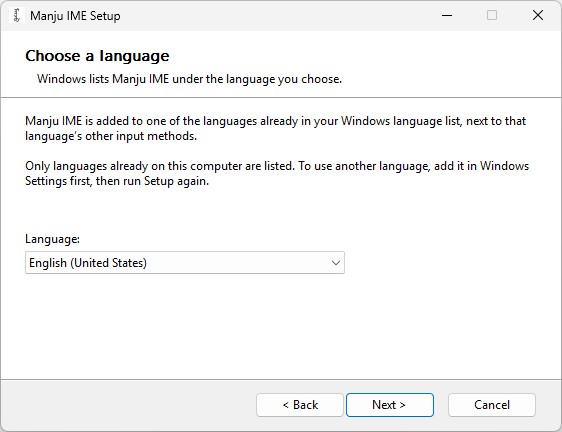
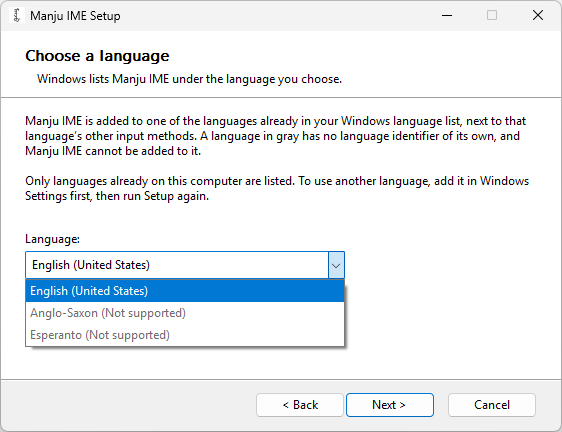
Documents for 1.0.0: the examples as animations, the keys of Chromium programs, whom Manju IME is for
- README: a paragraph on whom Manju IME is for. The pictures at the top give way to thirteen animations
  taken one key at a time: twelve examples, each captioned with the input scheme it was typed with, and
  the eight themes of the candidate window. An acknowledgment of Claude Code and Codex.
- Using Manju IME: a row of the key table for Ctrl, Alt or Win with another key and for F1 to F12, which
  Microsoft Edge and the other programs built on Chromium get only after Manju IME has put the word in as
  you typed it. Leaving a word names the ways a word now ends in Edge, and its paragraph on a click on
  another program’s window is gone.
- Deploying Manju IME: the paragraph on the message hooks says what the input method does now, and names
  the programs that show web pages with Microsoft Edge WebView2.
- Installing and Deploying Manju IME say what Microsoft’s page on Smart App Control says without quoting
  it.
- The picture of the language page shows its list open, with the languages in gray.

Every picture comes from Manju IME 1.0.0 in Windows Sandbox. typing.gif and vertical-edge-typing.png,
which no document shows any more, are removed.

Changed region(s): [[0.0302, 0.5718, 0.6352, 0.8125], [0.0302, 0.331, 0.9377, 0.4815], [0.363, 0.3009, 0.9377, 0.331]]

diff --git a/README.md b/README.md
@@ -7,32 +7,91 @@ keyboard has no keys for, here the Manchu script. You type the spelling of a Man
 letters, and a small window beside the text, the candidate window, shows the word in Manchu letters;
 press **Space**, and the word goes into your document.
 
+Manju IME is made for people who are learning Manchu. The candidate window shows one card for each form
+the highlighted letter can take, each card the whole word with that form, so you see how a letter changes
+with its place in the word, and a number key picks the form. Six input schemes let you type with a
+spelling you already know, and whichever of them you type with, the display scheme can show the letters
+typed in the spelling you learned, such as Möllendorff’s.
+
 Manju IME enters only standard characters of Unicode, the standard that numbers every character of every
 script: the Manchu letters and punctuation, the variation selectors that pick another form of a letter,
 and the separators that set a suffix apart, all as Unicode defines them, and the Latin letters and
 symbols you type on a standard keyboard. It uses no private-use characters and no codes that only one
-font understands, so any font that follows Unicode draws the text. You spell Manchu in one of six input
-schemes, ways of spelling it in Latin letters, and each of them is typed with the Latin letters of a
-standard keyboard.
+font understands, so any font that follows Unicode draws the text. Each of the six input schemes, ways of
+spelling Manchu in Latin letters, is typed with the Latin letters of a standard keyboard.
 
-![Typing šanyan on a vertical page with the Möllendorff input scheme: s, then a tap of Shift, which turns the s into š among the letters typed, then anyan; after each key the candidate window beside the caret shows the word in Manchu letters, and Space enters it](docs/images/typing.gif)
+## Examples
 
-*Typing `šanyan` (white) with the Möllendorff input scheme, where `š` is `s` followed by a tap of
-**Shift**.*
+Every picture below was taken in Windows 11, one frame for each key, on a web page written top to bottom
+in Microsoft Edge; the last one shows the candidate window alone, one frame for each theme. The caption
+under each names the input scheme it was typed with.
 
-![A web page written top to bottom in Microsoft Edge, with the Möllendorff input scheme: hūwaliyasun is entered, and the candidate window shows šun as it is typed](docs/images/vertical-edge-typing.png)
+![A web page written top to bottom, with the Möllendorff input scheme. The words bi, manju, gisun and be are typed one key at a time: after each key the candidate window beside the text shows the word in Manchu letters, Space enters the word, and a second Space types a space. Then tacimbi and the full stop key, which adds the Manchu full stop, and Space enters the last word](docs/images/showcase-01-sentence.gif)
 
-*A web page written top to bottom: `hūwaliyasun` (harmony) is entered and `šun` (sun) is being typed, with
-the Möllendorff input scheme.*
+*`bi manju gisun be tacimbi.` (I study the Manchu language), typed word by word with the Möllendorff input
+scheme. **Space** enters each word, and the full stop key gives the Manchu full stop ᠃.*
 
-![Two candidate windows with the Möllendorff input scheme: gisun typed, with two cards, and bithe typed, with four cards; each card shows the whole word with one form of its last letter](docs/images/glyphs.png)
+![The sentence of the picture above typed at about 80 milliseconds a key, with the Möllendorff input scheme: the candidate window follows every key](docs/images/showcase-02-fast.gif)
 
-*Each card shows the whole word with one form of the highlighted letter: `gisun` and `bithe`, typed with
-the Möllendorff input scheme.*
+*The same sentence typed fast, with the Möllendorff input scheme.*
 
-![The candidate window after typing manju, in each of the eight themes: Windows 11, So Young, Solarized Dark, Court, High Contrast, Bean Green, Google and Android](docs/images/themes.png)
+![With the Möllendorff input scheme, enduringge is typed one key at a time. Up three times moves the highlight up the letters to i, and Down twice moves it back to g; the cards change with each move. 3 picks the card where ng is joined with the g, and Space enters the word. Then bithe is typed, Right three times moves across the four cards of its last letter, 3 picks one, and Space enters the word](docs/images/showcase-03-forms.gif)
 
-*The candidate window in its eight themes, after typing `manju` with the Möllendorff input scheme.*
+*`enduringge` (holy): **Up** and **Down** move the highlight along the letters and the cards change with
+it, and **3** picks the card that joins `ng` with the `g` after it. Then `bithe` (book): **Right** moves
+across the four forms of its last letter, and **3** picks one. Möllendorff input scheme.*
+
+![With the Möllendorff input scheme, gurun and be are entered, then h, u, a tap of Shift that turns the u into ū, and waliyambumbi are typed. The word has more letters than the candidate window has rows: Page Up shows the rows before and Page Down the rows after, and Space enters the word](docs/images/showcase-04-long-word.gif)
+
+*`gurun be hūwaliyambumbi` (to bring the country into harmony): the long word has more letters than the
+window has rows, and **Page Up** and **Page Down** show the others. Möllendorff input scheme, where `ū`
+is `u` followed by a tap of **Shift**.*
+
+![With the Möllendorff input scheme, bi is entered; a tap of Shift switches to Latin input and Manju IME goes in as Latin letters; another tap of Shift switches back to Manchu input, and be and baitalambi are typed and entered in Manchu letters](docs/images/showcase-05-mixed.gif)
+
+*Manchu and Latin letters in one line, `bi Manju IME be baitalambi` (I use Manju IME): a tap of
+**Shift** switches between Manchu and Latin input. Möllendorff input scheme.*
+
+![With Refined Romanisation (draft), sy, tsy, dzy, chy and jy are typed and each is entered with Space; in the candidate window each whole syllable takes one row of the letters typed](docs/images/showcase-06-syllables.gif)
+
+*Whole syllables, each shown as one row of the letters typed: `sy`, `tsy`, `dzy`, `chy` and `jy`, typed
+with Refined Romanisation (draft), the input scheme that types all of them.*
+
+![With the Möllendorff input scheme, manju is typed, then the hyphen key, which inserts the Mongolian vowel separator, then i, and Space enters manju-i; then gisun is typed and entered. Then bi, the hyphen key and de](docs/images/showcase-07-suffix.gif)
+
+*The Mongolian vowel separator, which sets a suffix apart, typed with the `-` key: `manju-i gisun` and
+`bi-de`, with the Möllendorff input scheme.*
+
+![With the Möllendorff input scheme, nga is typed, where ng is one letter, and entered; then n, the apostrophe key and ga are typed: the apostrophe key separates n from g, and the word has the two letters n and g](docs/images/showcase-08-apostrophe.gif)
+
+*`nga`, where `ng` is one letter, and `n'ga`, where the `'` key separates `n` from `g`. Möllendorff
+input scheme.*
+
+![With the Möllendorff input scheme, bi manju, si monggo. is typed: the comma key adds the Manchu comma after manju, the full stop key adds the Manchu full stop after monggo, and Space enters each word](docs/images/showcase-09-punctuation.gif)
+
+*The Manchu comma and full stop in `bi manju, si monggo.` (I am Manchu, you are Mongol), typed with the
+Möllendorff input scheme.*
+
+![With Refined Romanisation (draft) and the display scheme set to Möllendorff, s, h, u and n are typed: the letters typed show š, u and n, and Space enters the word](docs/images/showcase-10-display-scheme.gif)
+
+*The display scheme, the spelling that the letters typed are shown in: `shun` typed with Refined
+Romanisation (draft) is shown as `šun`, the Möllendorff spelling.*
+
+![The Manchu word šun (sun) typed six times, once in each input scheme in the Latin order of their names: xun with Abkai and with BabelPad, shun with Hu, s, a tap of Shift and un with Möllendorff and with Norman, and shun with Refined Romanisation (draft). Each time the candidate window shows the same Manchu word, and Space enters it](docs/images/showcase-11-schemes.gif)
+
+*`šun` (sun) typed in each of the six input schemes, in the Latin order of their names: `xun` with Abkai
+and with BabelPad, `shun` with Hu, `s`, a tap of **Shift** and `un` with Möllendorff and with Norman,
+and `shun` with Refined Romanisation (draft).*
+
+![With the Möllendorff input scheme, ere manju hergen i bithe. is typed one key at a time on a page written top to bottom; Space enters each word, and the full stop key adds the Manchu full stop](docs/images/showcase-12-page.gif)
+
+*`ere manju hergen i bithe.` (This is a book in the Manchu script), typed with the Möllendorff input
+scheme.*
+
+![The candidate window after typing manju with the Möllendorff input scheme, shown in each of its eight themes in turn: Windows 11, So Young, Solarized Dark, Court, High Contrast, Bean Green, Google and Android](docs/images/showcase-themes.gif)
+
+*The candidate window in its eight themes, sets of colors that the settings file picks, after typing
+`manju` with the Möllendorff input scheme.*
 
 [Using Manju IME](docs/usage.md) has more pictures, with every key the IME uses.
 
@@ -69,7 +128,7 @@ into a folder you will keep. In the `Installer` folder, run `Install Manju IME.e
 
 [Deploying Manju IME](docs/deployment.md) covers unattended deployment with the PowerShell scripts.
 
-![Setup page by page: the first page, the language page, the folder page, Setup while it installs Manju IME, and the last page, which says Manju IME is installed](docs/images/setup.gif)
+![Setup page by page: the first page, the language page with its list open, the folder page, Setup while it installs Manju IME, and the last page, which says Manju IME is installed](docs/images/setup.gif)
 
 ## Use
 
@@ -99,3 +158,6 @@ In the `Installer` folder, run `Uninstall Manju IME.exe`. The files stay in the 
 - Weasel, the Windows front end of the [RIME](https://rime.im/) input method engine: Manju IME drew some
   inspiration from it.
 - The makers of the five published input schemes: see [Input schemes](docs/romanization.md#acknowledgments).
+- [Claude Code](https://www.anthropic.com/claude-code) by Anthropic, the AI coding agent that wrote the code
+  and these documents to the author’s design and architecture, and [Codex](https://openai.com/codex/) by
+  OpenAI, which reviewed the releases.

diff --git a/docs/usage.md b/docs/usage.md
@@ -79,6 +79,7 @@ they would without an IME.
 | **Left**, **Right** | Moves the highlight to the card before or after; this does not pick the card. | Goes to the program. |
 | **Page Up**, **Page Down** | When the word has more letters than the window shows, shows the rows before or after, and highlights the first letter shown. | Goes to the program. |
 | **Tab** | Goes to the program. Microsoft Edge, Google Chrome and the other programs built on Chromium end the word when they get it, so Manju IME first puts the word into the document as you typed it: see [Leaving a word](#leaving-a-word). In other programs, such as Notepad, the word stays open. | Goes to the program. |
+| **Ctrl**, **Alt** or **Win** with another key, and **F1** to **F12** | Go to the program. In Microsoft Edge, Google Chrome and the other programs built on Chromium, Manju IME first puts the word into the document as you typed it, as it does for **Tab**; a key that takes you to another program, such as **Alt+Tab** or **Win+D**, drops the word: see [Leaving a word](#leaving-a-word). | Go to the program. |
 | **Shift**, tapped | Adds the mark or the apostrophe to the letter before it: see [Tap Shift in the middle of a word](#tap-shift-in-the-middle-of-a-word). | Switches between Latin and Manchu input: see [Switch between Latin and Manchu](#switch-between-latin-and-manchu). |
 | `'` | Separates two letters, or, pressed a second time, puts the letters typed into the document as they are, followed by an apostrophe: see [The apostrophe key](#the-apostrophe-key). | Types an apostrophe. |
 | `-` | Inserts the Mongolian vowel separator: see [Suffixes](#suffixes). | Types a hyphen. |
@@ -91,12 +92,9 @@ they would without an IME.
 
 When you switch to another program with **Alt+Tab** in the middle of a word, Manju IME drops the word, as
 **Esc** does, and nothing goes into the document. When the program you type in ends the word itself, for
-example when Microsoft Edge moves to another field on **Tab** or on a click, the word goes into the
-document as you typed it: the letters you picked in their Manchu form, the others in Latin letters.
-
-In Microsoft Edge and the other programs built on Chromium, a click on another program’s window in the
-middle of a word sometimes puts the word into the document as you typed it, and sometimes drops it. Press
-**Space**, **Enter** or **Esc** to end the word before you click away.
+example when Microsoft Edge moves to another field on **Tab**, on a click or on a key such as **Ctrl+L**
+or **F6**, or when you click another window of Edge, the word goes into the document as you typed it:
+the letters you picked in their Manchu form, the others in Latin letters.
 
 ### Pick a form with the number keys
 

diff --git a/docs/deployment.md b/docs/deployment.md
@@ -173,11 +173,14 @@ shortcut.
   type: the letters of a word are held in memory while you type it.
 - It creates windows of its own, such as the candidate window, and one thread of its own in each program
   it is loaded into.
-- In Microsoft Edge, Google Chrome and the other programs built on Chromium, the first time you type a word
-  there it sets two Windows message hooks on that program’s window thread, removed when the input method
-  is switched off in that program. When one of these programs ends a word itself, it leaves a dot, the
-  placeholder of the word, in the document. With the hooks the input method ends the word first: when a
-  mouse button goes down in the program, it puts the word in as you typed it, and on Alt+Tab it drops the
+- In Microsoft Edge, Google Chrome and the other programs built on Chromium, and in programs that show web
+  pages with Microsoft Edge WebView2, the first time you type a word there it sets two Windows message
+  hooks on that program’s window thread, removed when the input method is switched off in that program.
+  When one of these programs ends a word itself, it leaves a dot, the placeholder of the word, in the
+  document. So the input method ends the word first and puts it in as you typed it: before it passes the
+  program a key, other than Shift, Ctrl, Alt or Win alone and Caps Lock, Num Lock and Scroll Lock; and,
+  with the hooks, when a mouse button goes down in the program, when Alt is pressed with another key such
+  as D, and when another window of the same program becomes active. On Alt+Tab and Alt+Esc it drops the
   word, as when you switch away.
 
 ### Uninstalling
@@ -211,8 +214,8 @@ it found, and goes on either way.
   SmartScreen, the part of Windows that checks programs downloaded from the internet: [Installing Manju
   IME](installation.md#windows-protected-your-pc) says how to go on.
 - Smart App Control, turned on and off in the settings of the Windows Security app, blocks a program that
-  is not signed, and Microsoft says: “There is currently no way to bypass Smart App Control protection for
-  individual apps.” While it is on, the setup programs cannot run.
+  is not signed, and Microsoft says that at present no single program can be let through. While it is
+  on, the setup programs cannot run.
 
 ### The settings file
 

diff --git a/docs/installation.md b/docs/installation.md
@@ -27,7 +27,7 @@ lists every change they make.
    folder to run Manju IME from. By default that is the folder Manju IME is in now; for another
    folder, Setup copies Manju IME there.
 
-   ![The language page of Setup](images/setup-2-language.png)
+   ![The language page of Setup with its list open: English (United States) is chosen, and Anglo-Saxon and Esperanto are in gray, marked Not supported](images/setup-2-language.png)
 
    ![The folder page of Setup](images/setup-3-location.png)
 
@@ -44,11 +44,10 @@ Manju IME is not code-signed, so when you run the downloaded `Install Manju IME.
 **Windows protected your PC**. Click **More info**, then **Run anyway**.
 
 Smart App Control, which you turn on and off in the settings of the Windows Security app, does not offer
-that choice. Microsoft’s answers about it say: “If the app is unsigned, or the signature is invalid, Smart
-App Control will consider it untrusted and block it for your protection,” and “There is currently no way to
-bypass Smart App Control protection for individual apps.” While it is on, Setup cannot run. The same page
-says that recent Windows updates allow Smart App Control to be turned on again without a clean
-installation of Windows.
+that choice. Microsoft’s answers about it say that it takes a program with no signature, or with a
+signature that is not valid, as untrusted and blocks it, and that at present no single program can be
+let through. While it is on, Setup cannot run. The same page says that recent Windows updates allow
+Smart App Control to be turned on again without a clean installation of Windows.
 [What Manju IME does to a computer](deployment.md#what-manju-ime-does-to-a-computer) says what the
 programs do before you run them.
 
